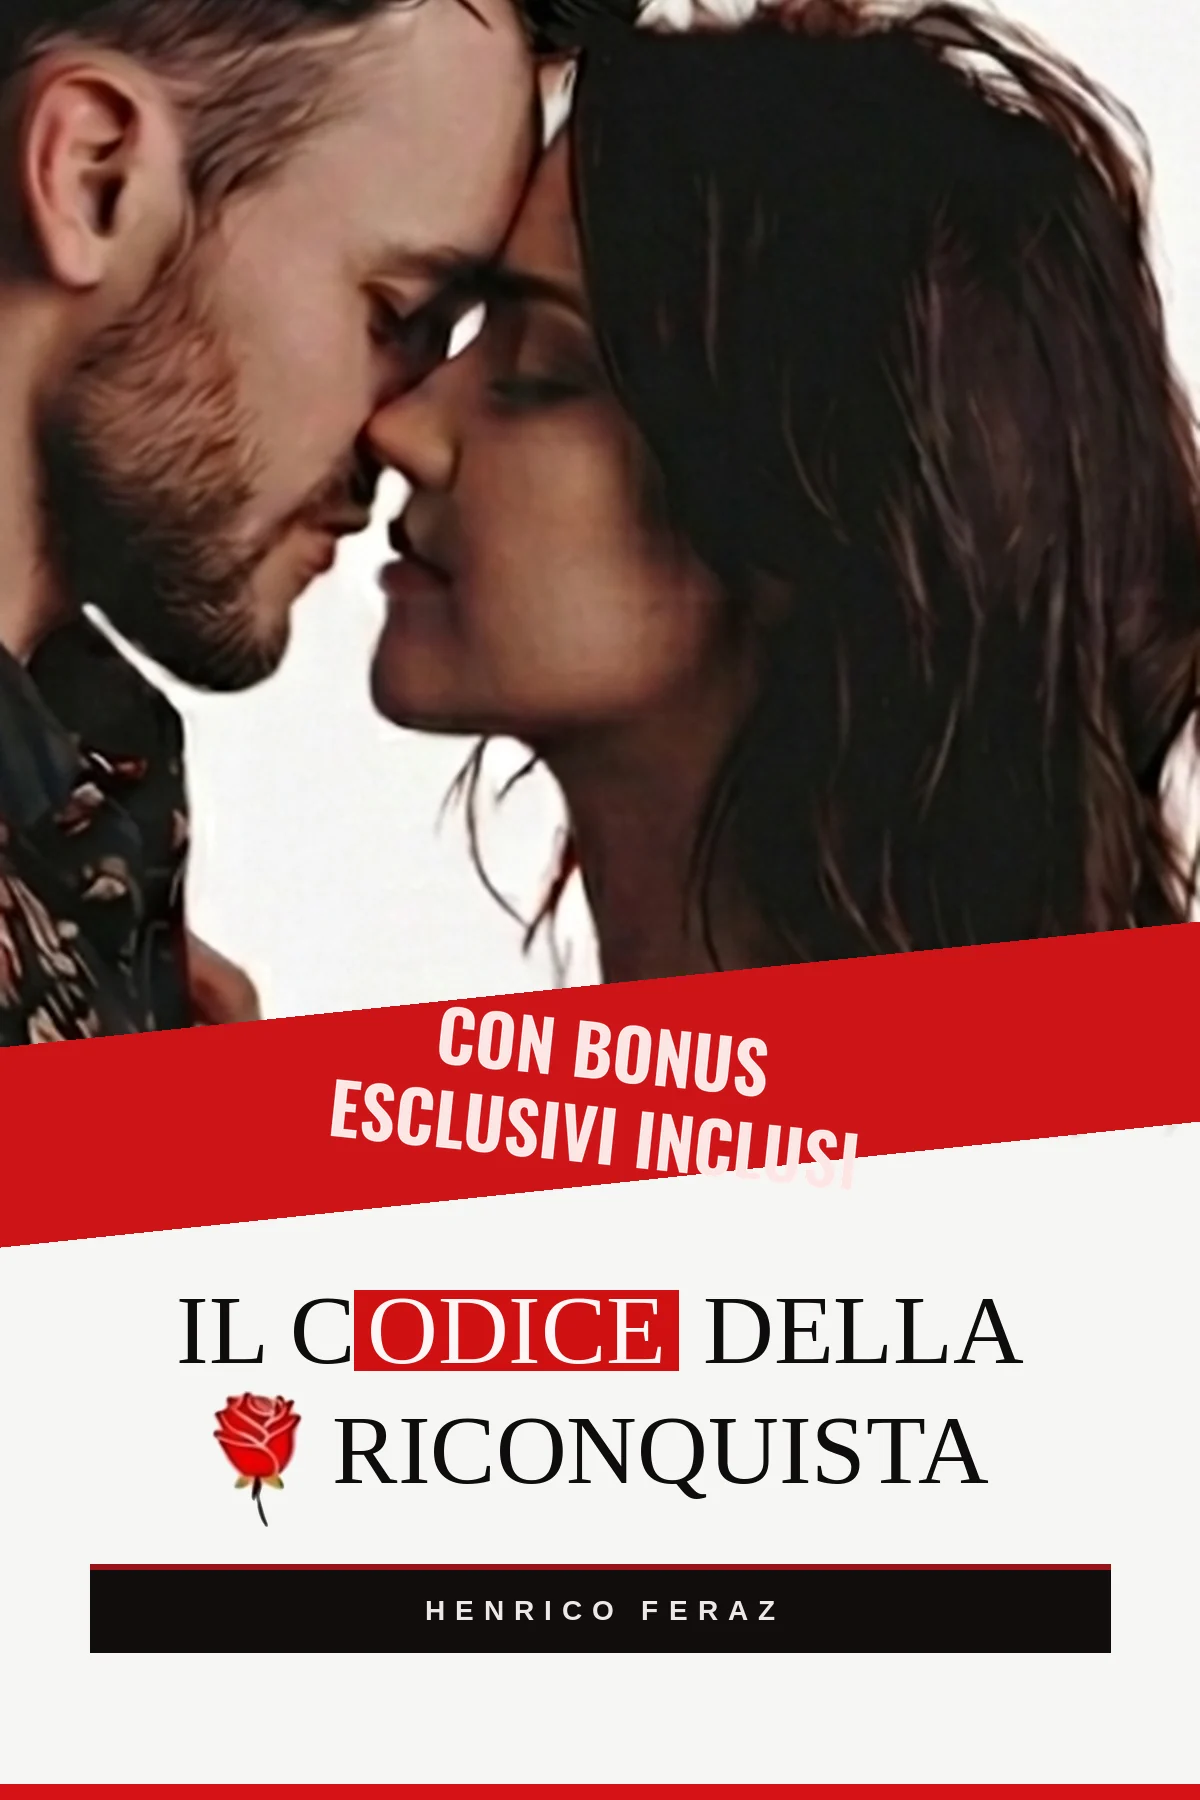
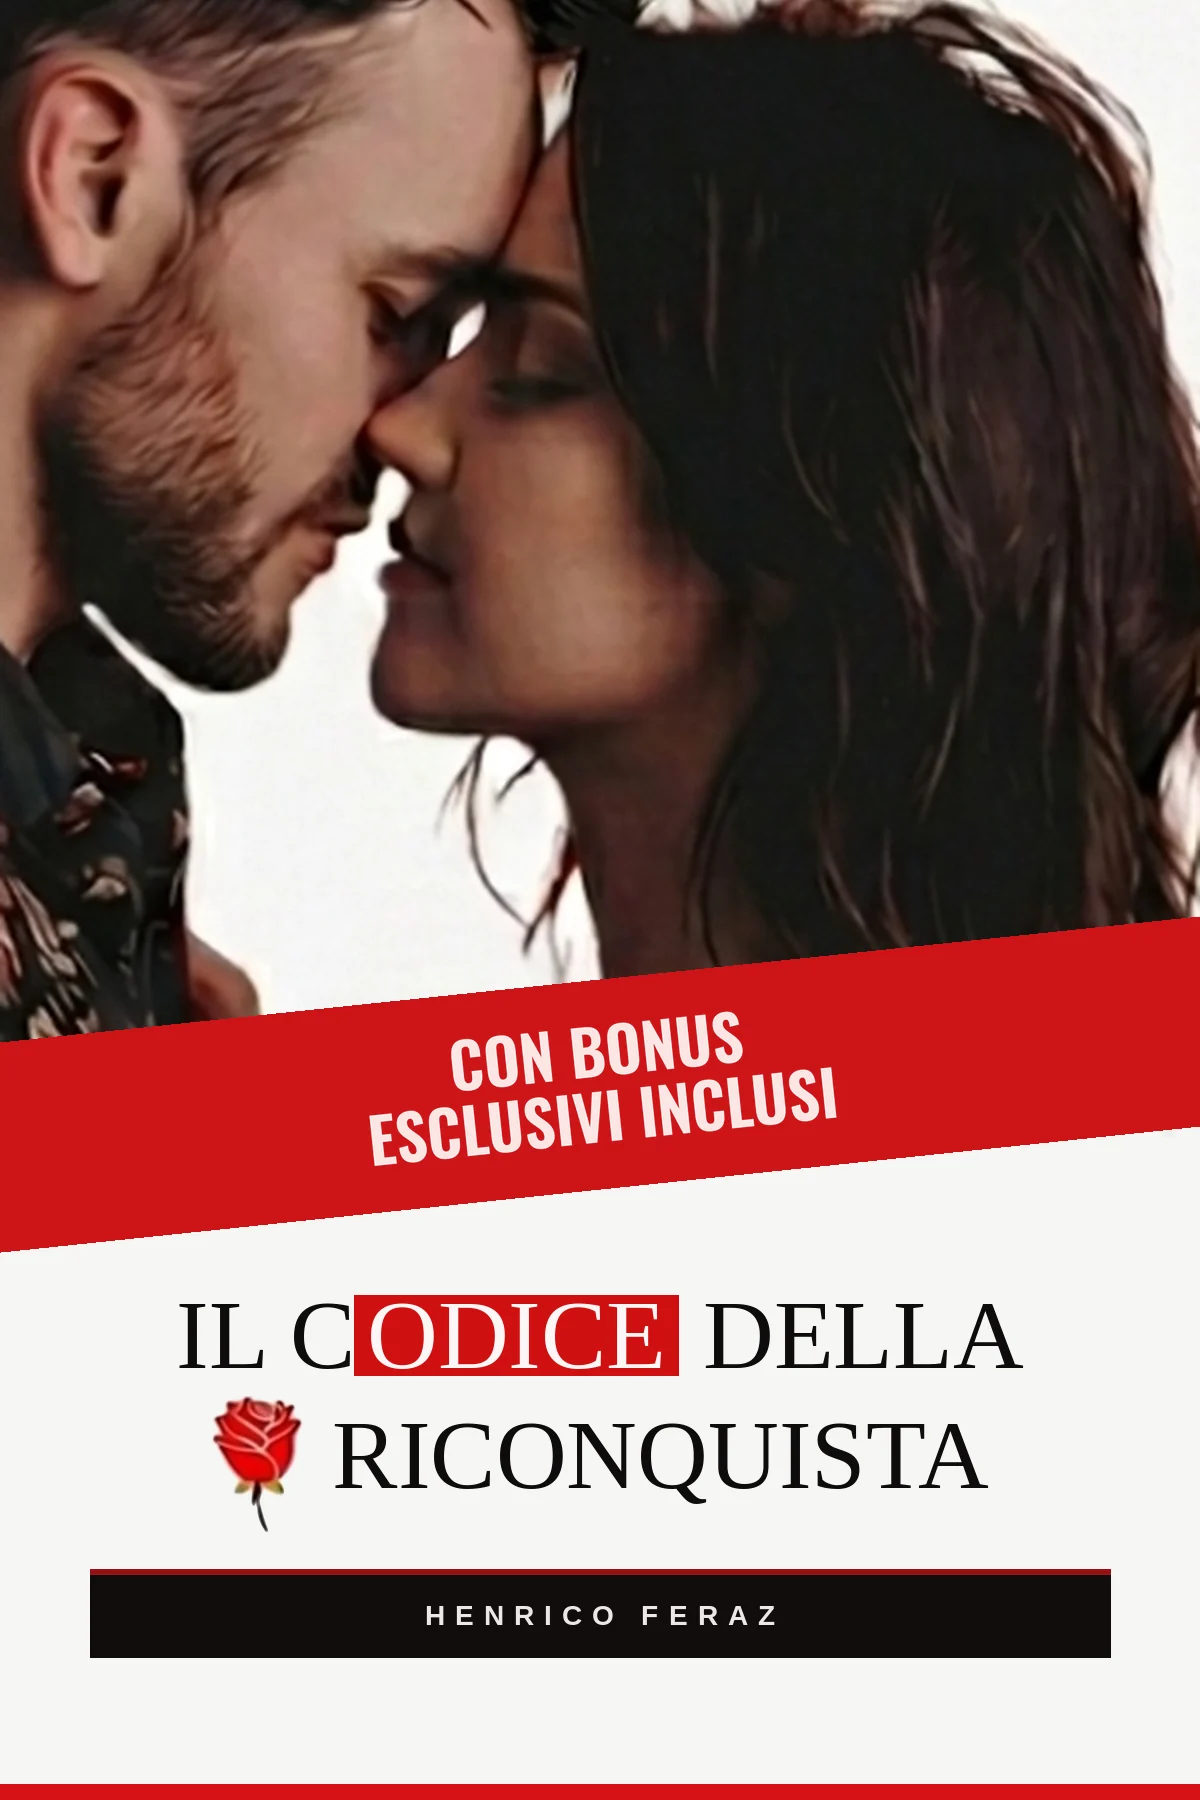
Capa corretta — Il Codice della Riconquista

diff --git a/sw.js b/sw.js
@@ -1,6 +1,6 @@
 /* Service worker do leitor. Para publicar uma versão nova: trocar VERSION (o cache antigo é apagado no activate). */
 /* Caminhos relativos ao escopo do SW: funciona em https://codicedellariconquista.com/leggi/ e em localhost:/leggi/. */
-var VERSION = 'rqit-leitor-v5';
+var VERSION = 'rqit-leitor-v6';
 var SCOPE = self.registration.scope;
 var PRECACHE = [
   './', 'index.html', 'reader.css', 'reader.js', 'content.js', 'config.js', 'access.js', 'manifest.webmanifest',
